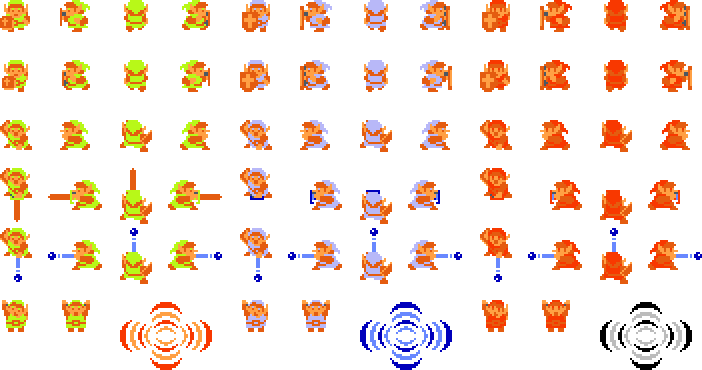
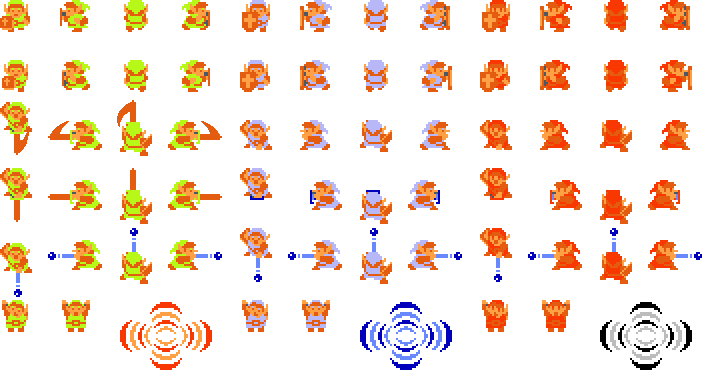
monster and attack

Changed region(s): [[0.0, 0.2676, 0.3291, 0.4162], [0.0, 0.5946, 0.0598, 0.8027]]

diff --git a/src/components/hero.js b/src/components/hero.js
@@ -1,48 +1,37 @@
 import * as PIXI from 'pixi.js';
 import CONSTANTS from '../constants';
+import getDist from '../utils';
 
 export default class Hero {
   constructor(args) {
-    // Static util
-    this.dirmap = ['down', 'left', 'up', 'right'];
     // Setup
     this.x = args.x;
     this.y = args.y;
     this.dir = args.dir;
-    this.textures = args.textures;
-    this.sprite = new PIXI.Sprite(
-      this.textures[`link_face_${this.dirmap[this.dir]}_0.png`]
-    );
+    this.textures = PIXI.loader.resources['assets/images/link.json'].textures;
+    this.sprite = new PIXI.Sprite(this.textures[`link_face_${this.dir}_0.png`]);
     this.stepCounter = 0;
-    this.nowStep = 0;
+    this.nowStepFrame = 0;
     this.updateImage();
     this.target = { x: this.x, y: this.y };
-    this.speed = 2;
+    this.moveSpeed = 2;
+    this.attackRange = 30;
+    this.stats = CONSTANTS.HERO_STATUS.WALKING;
+    this.nowAttackFrame = 0;
+    this.nowAttackTiming = 0;
+    this.attackDuration = 60; // 1 sec per attack
   }
 
-  setTarget(args) {
+  onClickGround(args) {
     this.target.x = args.x;
     this.target.y = args.y;
+    this.targetMonster = undefined;
+    this.status = CONSTANTS.HERO_STATUS.WALKING;
   }
 
-  goToTarget(delta) {
-    const dx = this.target.x - this.x;
-    const dy = this.target.y - this.y;
-    const dist = Math.sqrt(dx * dx + dy * dy);
-    if (dist === 0) {
-      return;
-    }
-
-    if (dist < this.speed * delta) {
-      this.x = this.target.x;
-      this.y = this.target.y;
-      return;
-    }
-
-    const rx = dx / dist;
-    const ry = dy / dist;
-    this.x += this.speed * rx * delta;
-    this.y += this.speed * ry * delta;
+  faceToTarget(target) {
+    const dx = target.x - this.x;
+    const dy = target.y - this.y;
     if (Math.abs(dx) > Math.abs(dy)) {
       if (dx > 0) {
         this.dir = CONSTANTS.DIRECTION.RIGHT;
@@ -56,21 +45,112 @@ export default class Hero {
     }
   }
 
-  update(delta) {
-    this.goToTarget(delta);
+  goToTarget(delta) {
+    // Reset attack timer.
+    this.nowAttackTiming = 0;
+
     this.stepCounter += delta;
     if (this.stepCounter >= 10) {
-      this.stepCounter = 0;
-      this.nowStep = this.nowStep === 0 ? 1 : 0;
+      this.stepCounter -= 10;
+      this.nowStepFrame = this.nowStepFrame === 0 ? 1 : 0;
+    }
+
+    const dx = this.target.x - this.x;
+    const dy = this.target.y - this.y;
+    const dist = Math.sqrt(dx * dx + dy * dy);
+    if (dist === 0) {
+      return;
+    }
+
+    if (dist < this.moveSpeed * delta) {
+      this.x = this.target.x;
+      this.y = this.target.y;
+      return;
+    }
+
+    this.faceToTarget(this.target);
+    const rx = dx / dist;
+    const ry = dy / dist;
+    this.x += this.moveSpeed * rx * delta;
+    this.y += this.moveSpeed * ry * delta;
+  }
+
+  attackMonster(delta) {
+    this.faceToTarget(this.targetMonster);
+    this.nowAttackTiming += delta;
+    if (this.nowAttackTiming < this.attackDuration * 0.4) {
+      this.nowAttackFrame = 0;
+    } else if (this.nowAttackTiming < this.attackDuration * 0.7) {
+      this.nowAttackFrame = 1;
+    } else {
+      this.nowAttackFrame = 2;
+    }
+    if (this.nowAttackTiming >= this.attackDuration) {
+      this.nowAttackTiming -= this.attackDuration;
+    }
+  }
+
+  update(delta) {
+    if (this.targetMonster === undefined) {
+      this.status = CONSTANTS.HERO_STATUS.WALKING;
+    } else if (
+      this.targetMonster !== undefined &&
+      getDist(this, this.targetMonster) > this.attackRange
+    ) {
+      this.status = CONSTANTS.HERO_STATUS.WALKING;
+      this.target.x = this.targetMonster.x;
+      this.target.y = this.targetMonster.y;
+    } else if (
+      this.targetMonster !== undefined &&
+      getDist(this, this.targetMonster) <= this.attackRange
+    ) {
+      this.status = CONSTANTS.HERO_STATUS.ATTACKING;
+    }
+
+    switch (this.status) {
+      case CONSTANTS.HERO_STATUS.ATTACKING:
+        this.attackMonster(delta);
+        break;
+      case CONSTANTS.HERO_STATUS.WALKING:
+      default:
+        this.goToTarget(delta);
     }
     this.updateImage();
   }
 
   updateImage() {
-    this.sprite.texture = this.textures[
-      `link_face_${this.dirmap[this.dir]}_${this.nowStep}.png`
-    ];
-    this.sprite.x = this.x - this.sprite.width / 2;
-    this.sprite.y = this.y - this.sprite.height / 2;
+    switch (this.status) {
+      case CONSTANTS.HERO_STATUS.ATTACKING:
+        this.sprite.texture = this.textures[
+          `link_attack_${this.dir}_${this.nowAttackFrame}.png`
+        ];
+
+        // TODO: make this cleaner
+        if (this.nowAttackFrame === 0) {
+          this.sprite.x = this.x - this.sprite.width / 2;
+          this.sprite.y = this.y - this.sprite.height / 2;
+        } else if (this.dir === CONSTANTS.DIRECTION.DOWN) {
+          this.sprite.x = this.x - this.sprite.width / 2;
+          this.sprite.y = this.y - this.sprite.height / 4;
+        } else if (this.dir === CONSTANTS.DIRECTION.LEFT) {
+          this.sprite.x = this.x - this.sprite.width / 4 * 3;
+          this.sprite.y = this.y - this.sprite.height / 2;
+        } else if (this.dir === CONSTANTS.DIRECTION.UP) {
+          this.sprite.x = this.x - this.sprite.width / 2;
+          this.sprite.y = this.y - this.sprite.height / 4 * 3;
+        } else if (this.dir === CONSTANTS.DIRECTION.RIGHT) {
+          this.sprite.x = this.x - this.sprite.width / 4;
+          this.sprite.y = this.y - this.sprite.height / 2;
+        }
+        break;
+      case CONSTANTS.HERO_STATUS.WALKING:
+      default:
+        this.sprite.texture = this.textures[
+          `link_face_${this.dir}_${this.nowStepFrame}.png`
+        ];
+        this.sprite.x = this.x - this.sprite.width / 2;
+        this.sprite.y = this.y - this.sprite.height / 2;
+        break;
+    }
   }
 }

diff --git a/src/index.js b/src/index.js
@@ -1,5 +1,6 @@
 import * as PIXI from 'pixi.js';
 import Hero from './components/hero';
+import Slime from './components/slime';
 import CONSTANTS from './constants';
 
 const { Application } = PIXI;
@@ -14,6 +15,7 @@ const app = new Application({
 });
 
 let hero;
+const monsters = [];
 document.body.appendChild(app.view);
 
 function setupHero() {
@@ -21,13 +23,50 @@ function setupHero() {
     x: app.screen.width / 2,
     y: app.screen.height / 2,
     dir: CONSTANTS.DIRECTION.DOWN, // down
-    textures: PIXI.loader.resources['assets/images/link.json'].textures,
   });
-  app.stage.addChild(hero.sprite);
+}
+
+function setupMonster() {
+  monsters.push(
+    new Slime({
+      x: 200,
+      y: 200,
+      dir: CONSTANTS.DIRECTION.DOWN,
+      hero,
+    })
+  );
+  monsters.push(
+    new Slime({
+      x: 600,
+      y: 200,
+      dir: CONSTANTS.DIRECTION.DOWN,
+      hero,
+    })
+  );
+  monsters.push(
+    new Slime({
+      x: 200,
+      y: 400,
+      dir: CONSTANTS.DIRECTION.DOWN,
+      hero,
+    })
+  );
+  monsters.push(
+    new Slime({
+      x: 600,
+      y: 400,
+      dir: CONSTANTS.DIRECTION.DOWN,
+      hero,
+    })
+  );
+
+  for (let i = monsters.length - 1; i >= 0; i -= 1) {
+    app.stage.addChild(monsters[i].sprite);
+  }
 }
 
 function mousedown(e) {
-  hero.setTarget({
+  hero.onClickGround({
     x: parseInt(e.data.global.x, 10),
     y: parseInt(e.data.global.y, 10),
   });
@@ -40,19 +79,24 @@ function setupStage() {
   background.endFill();
   app.stage.addChild(background);
   app.stage.interactive = true;
-  app.stage.on('mousedown', mousedown);
+  app.stage.on('pointerdown', mousedown);
 }
 
 function gameLoop(delta) {
   hero.update(delta);
+  for (let i = monsters.length - 1; i >= 0; i -= 1) {
+    monsters[i].update(delta);
+  }
 }
 
 function setup() {
   setupStage();
   setupHero();
+  setupMonster();
+  app.stage.addChild(hero.sprite);
   app.ticker.add(delta => {
     gameLoop(delta);
   });
 }
 
-loader.add(['assets/images/link.json', 'assets/images/slime.json']).load(setup);
+loader.add(['assets/images/slime.json', 'assets/images/link.json']).load(setup);

diff --git a/src/components/slime.js b/src/components/slime.js
@@ -1,0 +1,31 @@
+import * as PIXI from 'pixi.js';
+import CONSTANTS from '../constants';
+import Monster from './monster';
+
+export default class Slime extends Monster {
+  constructor(args) {
+    super(args);
+    // Setup
+    this.jumpCounter = 0;
+    this.nowJump = 0;
+    this.textures = PIXI.loader.resources['assets/images/slime.json'].textures;
+    this.monsterName = CONSTANTS.MONSTER_NAME.SLIME;
+  }
+
+  update(delta) {
+    this.jumpCounter += delta;
+    if (this.jumpCounter >= 20) {
+      this.jumpCounter -= 20;
+      this.nowJump = this.nowJump === 0 ? 1 : 0;
+    }
+    this.updateImage();
+  }
+
+  updateImage() {
+    this.sprite.texture = this.textures[
+      `${CONSTANTS.MONSTER_NAME.SLIME}_face_${this.dir}_${this.nowJump}.png`
+    ];
+    this.sprite.x = this.x - this.sprite.width / 2;
+    this.sprite.y = this.y - this.sprite.height / 2;
+  }
+}

diff --git a/src/components/monster.js b/src/components/monster.js
@@ -1,0 +1,26 @@
+import * as PIXI from 'pixi.js';
+
+export default class Monster {
+  constructor(args) {
+    this.sprite = new PIXI.Sprite();
+    // Opt-in to interactivity
+    this.sprite.interactive = true;
+
+    this.sprite.interactiveChildren = true;
+    // Shows hand cursor
+    this.sprite.buttonMode = true;
+
+    // Pointers normalize touch and mouse
+    this.sprite.on('pointerdown', this.onMouseClick.bind(this));
+
+    this.x = args.x;
+    this.y = args.y;
+    this.dir = args.dir;
+    this.hero = args.hero;
+  }
+
+  onMouseClick(e) {
+    e.stopPropagation();
+    this.hero.targetMonster = this;
+  }
+}

diff --git a/src/constants.js b/src/constants.js
@@ -1,11 +1,22 @@
 const DIRECTION = {
-  RIGHT: 3,
-  LEFT: 1,
-  DOWN: 0,
-  UP: 2,
+  RIGHT: 'right',
+  LEFT: 'left',
+  DOWN: 'down',
+  UP: 'up',
 };
+const HERO_STATUS = {
+  WALKING: 0,
+  ATTACKING: 1,
+};
+
+const MONSTER_NAME = {
+  SLIME: 'slime',
+};
+
 //
 const release = {
   DIRECTION: Object.freeze(DIRECTION),
+  HERO_STATUS: Object.freeze(HERO_STATUS),
+  MONSTER_NAME: Object.freeze(MONSTER_NAME),
 };
 export default Object.freeze(release);

diff --git a/src/utils.js b/src/utils.js
@@ -1,0 +1,7 @@
+function getDist(a, b) {
+  const dx = a.x - b.x;
+  const dy = a.y - b.y;
+  return Math.sqrt(dx * dx + dy * dy);
+}
+
+export default getDist;
